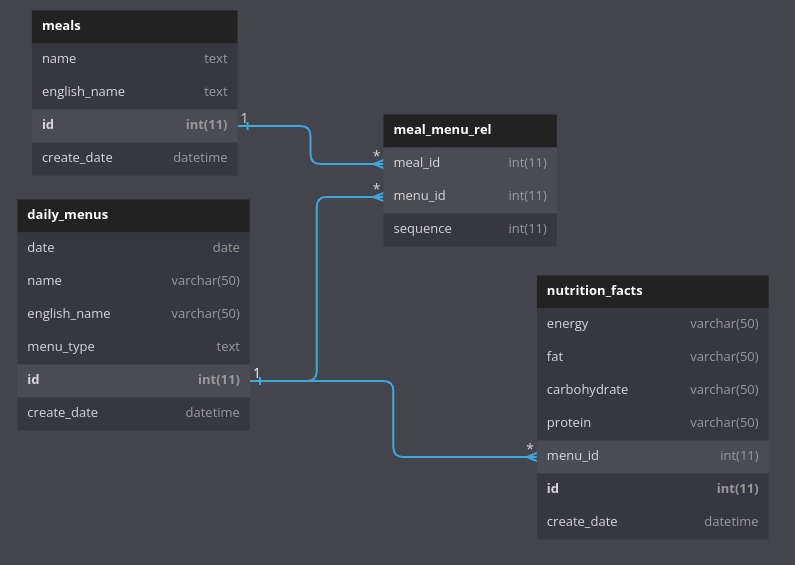
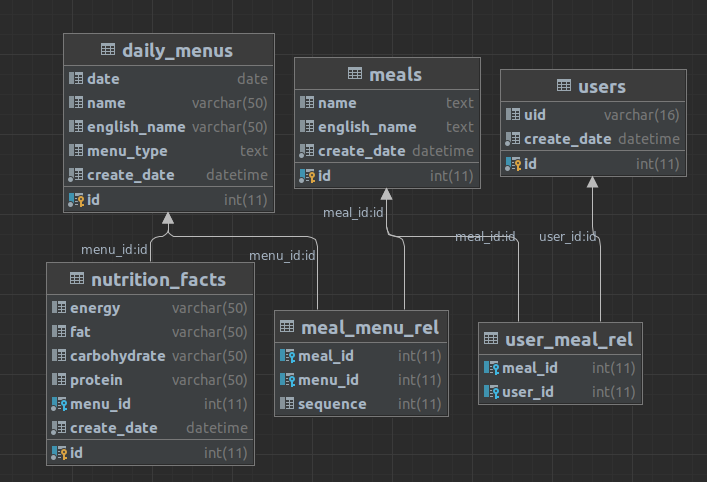
[IMP] Collect users' favorite meals

diff --git a/backend/models/base.py b/backend/models/base.py
@@ -17,12 +17,60 @@ class BaseModel(object):
     create_date = PriorityColumn(db.DateTime, nullable=False)
 
     @classmethod
-    def search(cls, id):
+    def browse(cls, id):
         if any(
             (isinstance(id, str) and id.isdigit(), isinstance(id, (int, float))),
         ):
             return cls.query.get(int(id))
         return None
+
+    @classmethod
+    def search(cls, domain):
+        query = cls.query
+        ops = {
+            "in": lambda col, val: col.in_(val),
+            "ilike": lambda col, val: col.ilike(val),
+            "=": lambda col, val: col == val,
+            "!=": lambda col, val: col != val,
+            "<": lambda col, val: col < val,
+            ">": lambda col, val: col > val,
+            "<=": lambda col, val: col <= val,
+            ">=": lambda col, val: col >= val,
+            "like": lambda col, val: col.like(val),
+            "not like": lambda col, val: ~col.like(val),
+            "contains": lambda col, val: col.contains(val),
+            "not contains": lambda col, val: ~col.contains(val),
+            # add additional operators here as needed
+        }
+        stack = []
+        for f in domain:
+            if f == "|":
+                right = stack.pop()
+                left = stack.pop()
+                query = query.filter(cls._combine_domain(left, right, "or"))
+                stack.append(None)
+            else:
+                stack.append(cls._create_filter(cls, f, ops))
+        if len(stack) == 1 and stack[0] is not None:
+            query = query.filter(stack[0])
+        return query.all()
+
+    @staticmethod
+    def _create_filter(model, f, ops):
+        if f[1] in ops:
+            col = model.__dict__[f[0]]
+            return ops[f[1]](col, f[2])
+        else:
+            return None
+
+    @staticmethod
+    def _combine_domain(left, right, op):
+        if left is None:
+            return right
+        elif right is None:
+            return left
+        else:
+            return left.op(op)(right)
 
     @classmethod
     def create(cls, vals, commit=True):

diff --git a/backend/endpoints/post_favorite.py b/backend/endpoints/post_favorite.py
@@ -1,0 +1,33 @@
+# Copyright 2023 Yiğit Budak (https://github.com/yibudak)
+# License AGPL-3.0 or later (http://www.gnu.org/licenses/agpl).
+from backend import app, conf, models
+from flask import jsonify, request
+from backend.libs import http_methods
+from flask_expects_json import expects_json
+
+
+API_SCHEMA = {
+    "type": "object",
+    "properties": {
+        "apiKey": {"type": "string"},
+        "userId": {"type": "string"},
+        "favoriteMeals": {"type": "array"},
+    },
+    "required": ["apiKey", "userId", "favoriteMeals"],
+}
+
+
+@app.route("/postFavorite")
+@expects_json(API_SCHEMA, silent=True)
+@http_methods.POST
+def post_favorite():
+    response = {"status": "error"}  # default response
+    users_model = models.env["users"]
+    meals_model = models.env["meals"]
+    if request.json["apiKey"] == conf.app.API_KEY:
+        meals = meals_model.search([("id", "in", request.json["favoriteMeals"])])
+        user = users_model.create({"uid": request.json["userId"]})
+        user.favorite_meals = meals
+        response = {"status": "success"}
+
+    return jsonify(response)

diff --git a/backend/models/users.py b/backend/models/users.py
@@ -1,0 +1,35 @@
+# # Copyright 2023 Yiğit Budak (https://github.com/yibudak)
+# # License AGPL-3.0 or later (http://www.gnu.org/licenses/agpl)
+from . import db
+from .base import BaseModel
+
+user_meal_rel = db.Table(
+    "user_meal_rel",
+    db.Column("meal_id", db.Integer, db.ForeignKey("meals.id")),
+    db.Column("user_id", db.Integer, db.ForeignKey("users.id")),
+)
+
+
+class Users(BaseModel, db.Model):
+    __tablename__ = "users"
+
+    uid = db.Column(db.String(16))
+    favorite_meal_ids = db.relationship(
+        "Meals",
+        secondary=user_meal_rel,
+        lazy="subquery",
+        backref=db.backref("user_ids", lazy=True),
+    )
+
+    def __repr__(self):
+        return "<User: %r>" % self.uid
+
+    def create(self, vals, commit=True):
+        """
+        Check if the user is already in the database.
+        :return:
+        """
+        user = self.query.filter_by(uid=vals["uid"]).first()
+        if not user:
+            user = super().create(vals, commit)
+        return user

diff --git a/backend/models/__init__.py b/backend/models/__init__.py
@@ -10,6 +10,7 @@ db = SQLAlchemy(app)
 from . import meals
 from . import daily_menus
 from . import nutrition_facts
+from . import users
 
 # Register models to app
 
@@ -17,8 +18,9 @@ env = {
     "meals": meals.Meals(),
     "daily_menus": daily_menus.DailyMenus(),
     "nutrition_facts": nutrition_facts.NutritionFacts(),
+    "users": users.Users(),
 }
 
-# with app.app_context():
-#     db.drop_all()
-#     db.create_all()
+with app.app_context():
+    db.drop_all()
+    db.create_all()

diff --git a/backend/endpoints/__init__.py b/backend/endpoints/__init__.py
@@ -3,6 +3,7 @@
 from flask import Blueprint
 from .get_weekly_menu import get_weekly_menu
 from .parse_menu import parse_menu
+from .post_favorite import post_favorite
 
 endpoints = Blueprint(
     "endpoints",

diff --git a/README.md b/README.md
@@ -80,6 +80,18 @@ And deploy the application with Gunicorn and reverse proxy...
 | :-------- | :------- | :------------------------- |
 | `apiKey` | `string` | **Required**. Your API key |
 
+#### Get the favorite meals
+
+```http
+  POST /postFavorite JSON
+```
+
+| Parameter       | Type     | Description                   |
+|:----------------|:---------|:------------------------------|
+| `apiKey`        | `string` | **Required**. Your API key    |
+| `userId`        | `string` | **Required**. Unique User ID  |
+| `favoriteMeals` | `array`  | **Required**. Favorited Meals |
+
 ## Database structure
 
 ![Database structure](./assets/database_diagram.png)
